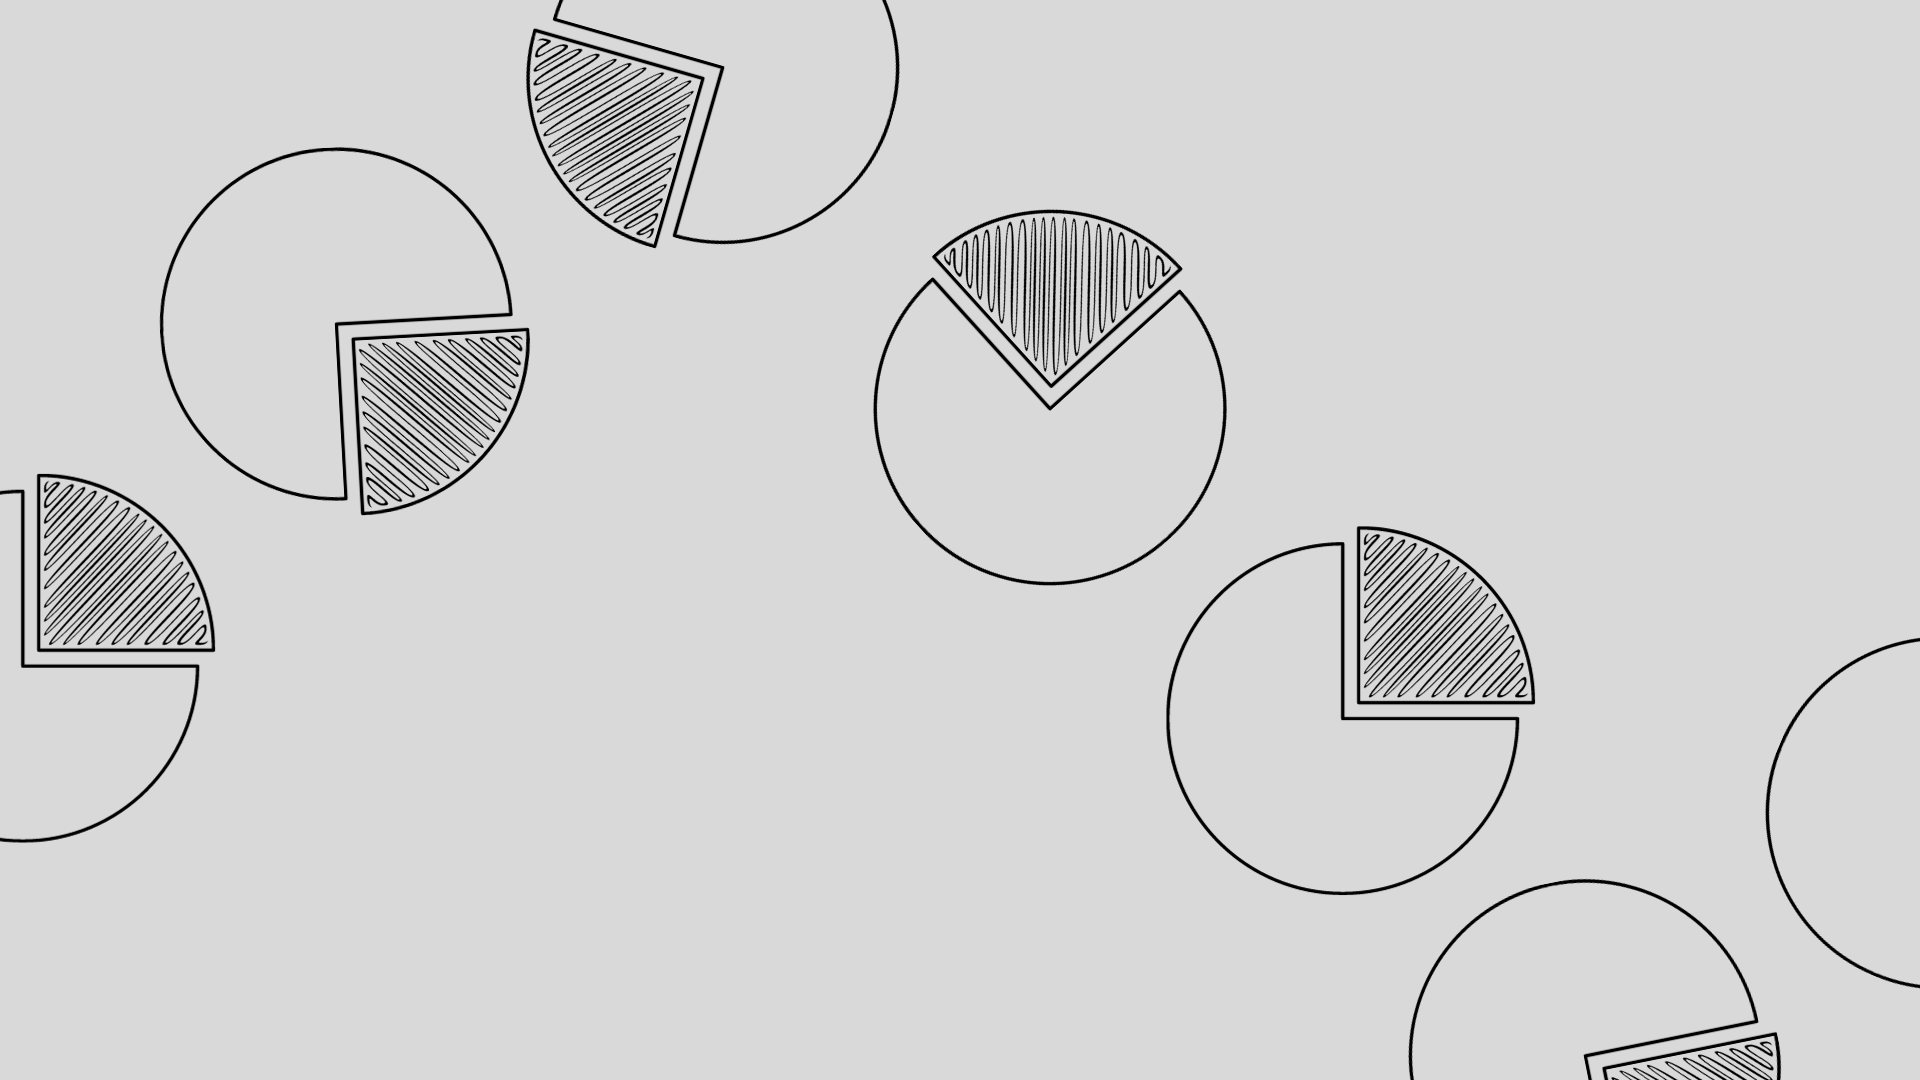
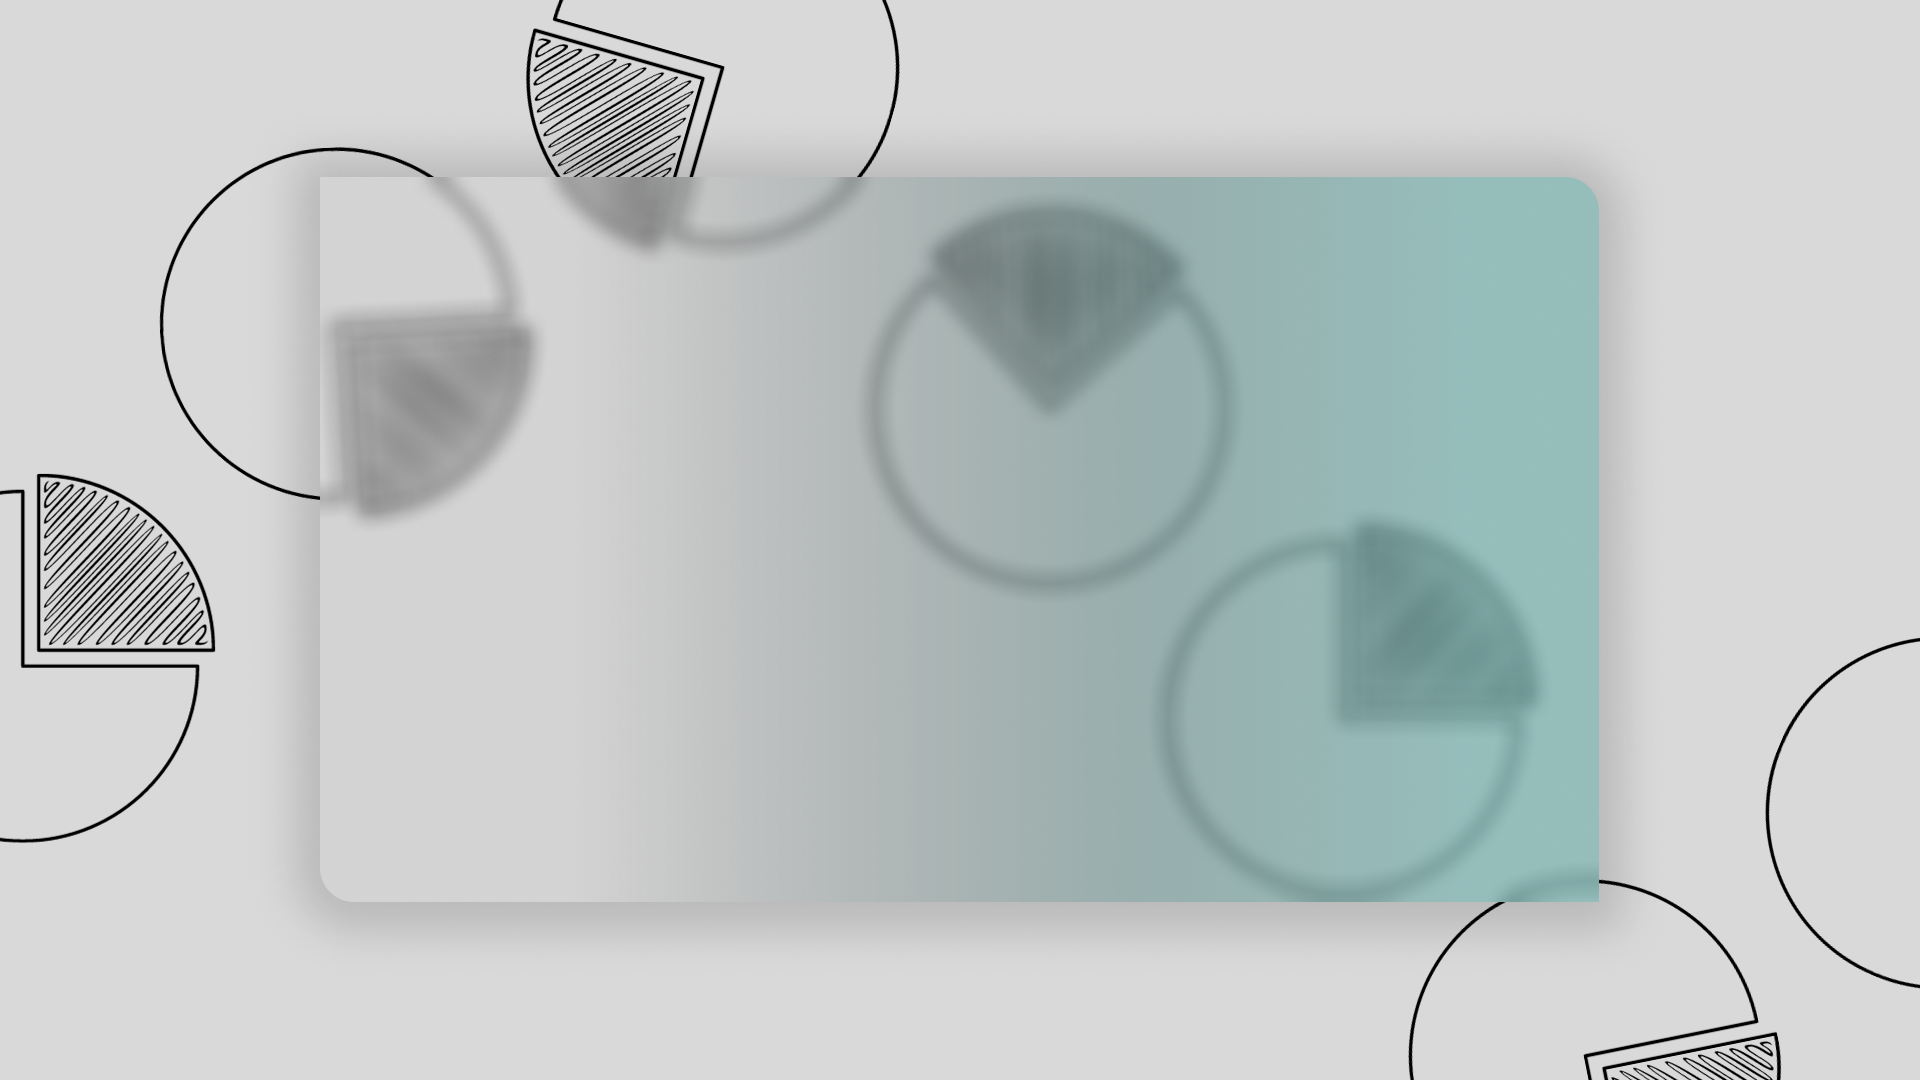
Updated LandingView UI

diff --git a/src/landingPageView.py b/src/landingPageView.py
@@ -17,18 +17,18 @@ from PySide6.QtGui import (QBrush, QColor, QConicalGradient, QCursor,
     QPalette, QPixmap, QRadialGradient, QTransform)
 from PySide6.QtWidgets import (QApplication, QFrame, QGridLayout, QHBoxLayout,
     QLabel, QMainWindow, QPushButton, QRadioButton,
-    QSizePolicy, QStackedWidget, QVBoxLayout, QWidget)
+    QSizePolicy, QStackedWidget, QVBoxLayout, QWidget, QGraphicsBlurEffect,QGraphicsOpacityEffect)
 
 class Ui_MainWindow(object):
     def setupUi(self, MainWindow):
         if not MainWindow.objectName():
             MainWindow.setObjectName(u"MainWindow")
-        MainWindow.resize(1920, 1080)
+        MainWindow.setMinimumSize(1920, 1080)
         MainWindow.setStyleSheet(u"")
         self.centralwidget = QWidget(MainWindow)
         self.centralwidget.setObjectName(u"centralwidget")
         self.centralwidget.setStyleSheet(u"#centralwidget {\n"
-"	background-image: url(\"C:/Users/msubh/Documents/uniplacer-insight/assets/bg.png\");\n"
+"	background-image: url(\"../uniplacer-insight/assets/bg.png\");\n"
 "}\n"
 "")
         self.verticalLayout = QVBoxLayout(self.centralwidget)
@@ -40,14 +40,13 @@ class Ui_MainWindow(object):
         self.blueCard = QFrame(self.widget)
         self.blueCard.setObjectName(u"blueCard")
         self.blueCard.setEnabled(True)
+
+
         self.blueCard.setMinimumSize(QSize(1279, 725))
         self.blueCard.setMaximumSize(QSize(1279, 725))
-        self.blueCard.setStyleSheet(u"#blueCard {\n"
-"background-color: qlineargradient(spread:pad, x1:0, y1:0, x1:1, y2:0, stop:0 rgba(48, 149, 143, 0.40), stop:1 rgba(0, 0, 0, 0.03));\n"
-"border-radius: 34px 34px;\n"
-"}")
         self.blueCard.setFrameShape(QFrame.StyledPanel)
         self.blueCard.setFrameShadow(QFrame.Raised)
+
         self.title = QLabel(self.blueCard)
         self.title.setObjectName(u"title")
         self.title.setGeometry(QRect(30, 230, 591, 271))
@@ -55,6 +54,7 @@ class Ui_MainWindow(object):
         self.title.setPixmap(QPixmap(u"../uniplacer-insight/assets/title.png"))
         self.title.setScaledContents(True)
         self.title.setAlignment(Qt.AlignCenter)
+
         self.stackedWidgetForCards = QStackedWidget(self.blueCard)
         self.stackedWidgetForCards.setObjectName(u"stackedWidgetForCards")
         self.stackedWidgetForCards.setGeometry(QRect(685, 32, 554, 664))
@@ -69,7 +69,7 @@ class Ui_MainWindow(object):
         self.studentPlacementStatCard.setCursor(QCursor(Qt.ArrowCursor))
         self.studentPlacementStatCard.setStyleSheet(u"#studentPlacementStatCard {\n"
 "\n"
-"border-radius: 35px 35px;\n"
+"border-radius: 20px 20px;\n"
 "background-color: rgb(255, 255, 255);\n"
 "\n"
 "}")
@@ -167,7 +167,7 @@ class Ui_MainWindow(object):
         self.companyPlacementStatCard.setCursor(QCursor(Qt.ArrowCursor))
         self.companyPlacementStatCard.setStyleSheet(u"\n"
 "\n"
-"	border-radius: 35px 35px;\n"
+"	border-radius: 20px 20px;\n"
 "	background-color: rgb(255, 255, 255);\n"
 "")
         self.companyPlacementStatCard.setFrameShape(QFrame.StyledPanel)
@@ -263,7 +263,7 @@ class Ui_MainWindow(object):
         self.performanceCard.setCursor(QCursor(Qt.ArrowCursor))
         self.performanceCard.setStyleSheet(u"\n"
 "\n"
-"	border-radius: 35px 35px;\n"
+"	border-radius: 20px 20px;\n"
 "	background-color: rgb(255, 255, 255);\n"
 "")
         self.performanceCard.setFrameShape(QFrame.StyledPanel)
@@ -354,7 +354,7 @@ class Ui_MainWindow(object):
         self.stackedWidgetForCards.addWidget(self.page_3)
         self.fileButton = QPushButton(self.blueCard)
         self.fileButton.setObjectName(u"fileButton")
-        self.fileButton.setGeometry(QRect(30, 22, 50, 50))
+        self.fileButton.setGeometry(QRect(22, 22, 50, 50))
         self.fileButton.setCursor(QCursor(Qt.PointingHandCursor))
         self.fileButton.setStyleSheet(u"")
         icon = QIcon()
@@ -365,7 +365,7 @@ class Ui_MainWindow(object):
         self.fileButton.setFlat(True)
         self.label = QLabel(self.blueCard)
         self.label.setObjectName(u"label")
-        self.label.setGeometry(QRect(40, 32, 30, 30))
+        self.label.setGeometry(QRect(32, 32, 30, 30))
         self.label.setPixmap(QPixmap(u"../uniplacer-insight/assets/files1.png"))
         self.label.setScaledContents(True)
 
